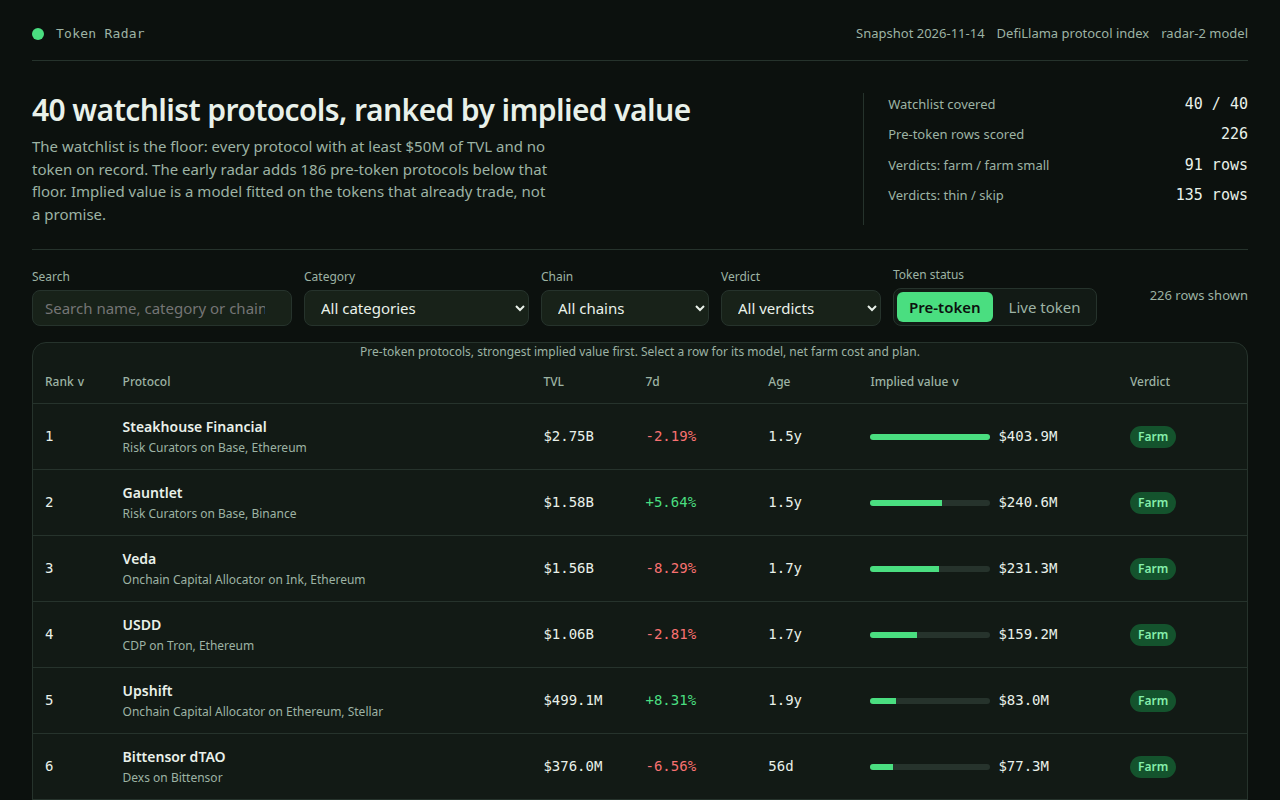
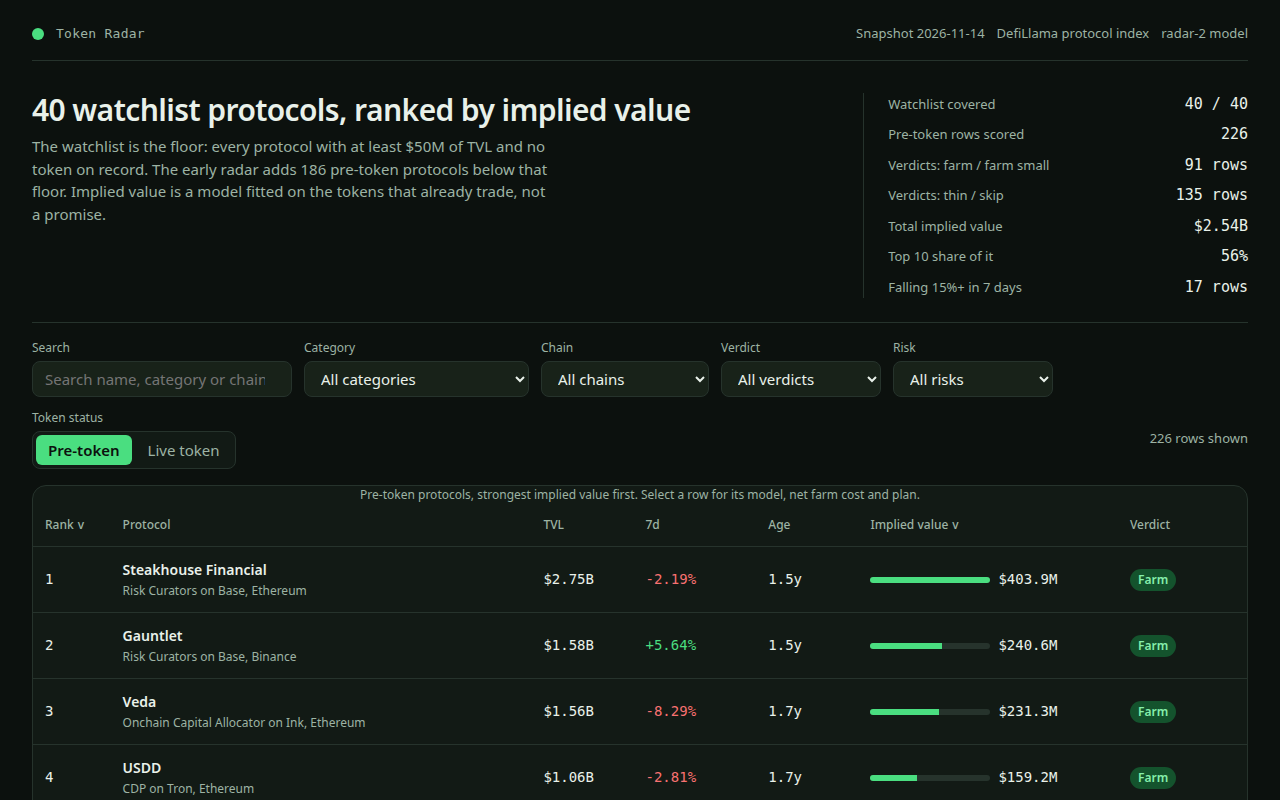
Radar-2: chain aggregates, risk flags, concentration note
- Chain aggregates: every chain's protocol count, total implied value,
  farm rows and top protocol, richest first (Ethereum $1.93B, Base
  $1.16B, Arbitrum $1.06B of a $2.54B board); rendered as a table
  in the model panel, with a concentration note (top 3 chains ~56%).
- Risk flag per row from the seven-day change alone: falling at -15%,
  surging at +25%, else steady (17 falling, 7 surging of 226); shown
  in the detail view with what it means, and filterable on the board.
- Lede gains total implied value, the top 10's share of it, and the
  falling count. All 7 gates still pass locally.

diff --git a/dashboard/app.js b/dashboard/app.js
@@ -7,7 +7,7 @@
   var DATA = window.RADAR;
   if (!DATA) return;
   var app = document.getElementById('board');
-  var state = { q: '', category: 'all', chain: 'all', verdict: 'all', tab: 'pre-token', sort: 'implied', dir: -1, selected: null };
+  var state = { q: '', category: 'all', chain: 'all', verdict: 'all', risk: 'all', tab: 'pre-token', sort: 'implied', dir: -1, selected: null };
 
   var usd = new Intl.NumberFormat('en-US', { style: 'currency', currency: 'USD', maximumFractionDigits: 0 });
   function fmtUsd(n) {
@@ -108,6 +108,12 @@
     skip: 'Skip it: the modelled value is too thin for the gas and the time; watch it instead.'
   };
   var VERDICT_LABEL = { farm: 'Farm', 'farm-small': 'Farm small', thin: 'Thin', skip: 'Skip' };
+  var RISK_LABEL = { falling: 'Falling', surging: 'Surging', steady: 'Steady' };
+  var RISK_TEXT = {
+    falling: 'TVL fell 15% or more in seven days: farm it smaller, or wait for the fall to stop.',
+    surging: 'TVL rose 25% or more in seven days: the growth multiplier credits the move, but a spike can unwind.',
+    steady: 'No sharp move in seven days: nothing in the recent change argues for or against the farm.'
+  };
   function actionFor(p, capital, chain) {
     var c = (p.category || '').toLowerCase();
     var name = p.name;
@@ -156,6 +162,7 @@
     if (params.get('category')) state.category = params.get('category');
     if (params.get('chain')) state.chain = params.get('chain');
     if (params.get('verdict')) state.verdict = params.get('verdict');
+    if (params.get('risk')) state.risk = params.get('risk');
   }
   function writeHash() {
     var params = new URLSearchParams();
@@ -163,6 +170,7 @@
     if (state.category !== 'all') params.set('category', state.category);
     if (state.chain !== 'all') params.set('chain', state.chain);
     if (state.verdict !== 'all') params.set('verdict', state.verdict);
+    if (state.risk !== 'all') params.set('risk', state.risk);
     if (state.selected) params.set('p', state.selected);
     var next = params.toString();
     if (next) window.history.replaceState(null, '', '#' + next);
@@ -175,6 +183,7 @@
       if (state.category !== 'all' && r.category !== state.category) return false;
       if (state.chain !== 'all' && !(r.chains || []).some(function (c) { return c === state.chain; })) return false;
       if (state.verdict !== 'all' && r.farm_verdict !== state.verdict) return false;
+      if (state.risk !== 'all' && r.risk !== state.risk) return false;
       if (!q) return true;
       var hay = [r.name, r.slug, r.category, (r.chains || []).join(' ')].join(' ').toLowerCase();
       return hay.indexOf(q) >= 0;
@@ -208,7 +217,16 @@
 
   function lede() {
     var counts = { farm: 0, 'farm-small': 0, thin: 0, skip: 0 };
-    DATA.rows.forEach(function (r) { counts[r.farm_verdict] = (counts[r.farm_verdict] || 0) + 1; });
+    var falling = 0;
+    var totalImplied = 0;
+    var topTenImplied = 0;
+    DATA.rows.forEach(function (r) {
+      counts[r.farm_verdict] = (counts[r.farm_verdict] || 0) + 1;
+      if (r.risk === 'falling') falling += 1;
+      totalImplied += r.implied_value_usd;
+      if (r.rank <= 10) topTenImplied += r.implied_value_usd;
+    });
+    var topTenShare = totalImplied > 0 ? Math.round((topTenImplied / totalImplied) * 100) : 0;
     return el('section', { class: 'lede' },
       el('div', null,
         el('h1', { text: DATA.watchlist_size + ' watchlist protocols, ranked by implied value' }),
@@ -218,7 +236,10 @@
         el('div', { class: 'fact' }, el('span', { text: 'Watchlist covered' }), el('b', { text: DATA.watchlist_size + ' / ' + DATA.watchlist_size })),
         el('div', { class: 'fact' }, el('span', { text: 'Pre-token rows scored' }), el('b', { text: String(DATA.board_size) })),
         el('div', { class: 'fact' }, el('span', { text: 'Verdicts: farm / farm small' }), el('b', { text: (counts.farm + counts['farm-small']) + ' rows' })),
-        el('div', { class: 'fact' }, el('span', { text: 'Verdicts: thin / skip' }), el('b', { text: (counts.thin + counts.skip) + ' rows' }))
+        el('div', { class: 'fact' }, el('span', { text: 'Verdicts: thin / skip' }), el('b', { text: (counts.thin + counts.skip) + ' rows' })),
+        el('div', { class: 'fact' }, el('span', { text: 'Total implied value' }), el('b', { text: fmtUsd(totalImplied) })),
+        el('div', { class: 'fact' }, el('span', { text: 'Top 10 share of it' }), el('b', { text: topTenShare + '%' })),
+        el('div', { class: 'fact' }, el('span', { text: 'Falling 15%+ in 7 days' }), el('b', { text: falling + ' rows' }))
       )
     );
   }
@@ -243,6 +264,11 @@
       ['farm', 'farm-small', 'thin', 'skip'].map(function (v) { return el('option', { value: v, text: VERDICT_LABEL[v], selected: v === state.verdict ? 'selected' : null }); })
     );
     verdictSelect.addEventListener('change', function () { state.verdict = verdictSelect.value; writeHash(); render(); });
+    var riskSelect = el('select', { id: 'risk', 'aria-label': 'Filter by risk' },
+      el('option', { value: 'all', text: 'All risks' }),
+      ['falling', 'surging', 'steady'].map(function (v) { return el('option', { value: v, text: RISK_LABEL[v], selected: v === state.risk ? 'selected' : null }); })
+    );
+    riskSelect.addEventListener('change', function () { state.risk = riskSelect.value; writeHash(); render(); });
     var pre = el('button', { type: 'button', 'aria-pressed': state.tab === 'pre-token' ? 'true' : 'false', text: 'Pre-token', onclick: function () { state.tab = 'pre-token'; render(); } });
     var live = el('button', { type: 'button', 'aria-pressed': state.tab === 'live' ? 'true' : 'false', text: 'Live token', onclick: function () { state.tab = 'live'; render(); } });
     return el('div', { class: 'controls' },
@@ -250,6 +276,7 @@
       el('div', { class: 'field' }, el('label', { for: 'category', text: 'Category' }), catSelect),
       el('div', { class: 'field' }, el('label', { for: 'chain', text: 'Chain' }), chainSelect),
       el('div', { class: 'field' }, el('label', { for: 'verdict', text: 'Verdict' }), verdictSelect),
+      el('div', { class: 'field' }, el('label', { for: 'risk', text: 'Risk' }), riskSelect),
       el('div', { class: 'field' }, el('span', { class: 'sub', text: 'Token status' }), el('div', { class: 'tabs' }, pre, live)),
       el('span', { class: 'count', text: state.tab === 'pre-token' ? rows().length + ' rows shown' : DATA.live.length + ' live-token protocols' })
     );
@@ -270,7 +297,7 @@
       return el('div', { class: 'panel' }, el('div', { class: 'empty' },
         el('h2', { text: 'No protocol matches that filter' }),
         el('p', { text: 'Clear the search or pick another category to see the board again.' }),
-        el('button', { class: 'button primary', type: 'button', text: 'Clear filters', onclick: function () { state.q = ''; state.category = 'all'; state.chain = 'all'; state.verdict = 'all'; writeHash(); render(); } })
+        el('button', { class: 'button primary', type: 'button', text: 'Clear filters', onclick: function () { state.q = ''; state.category = 'all'; state.chain = 'all'; state.verdict = 'all'; state.risk = 'all'; writeHash(); render(); } })
       ));
     }
     var max = list[0].implied_value_usd || 1;
@@ -342,6 +369,23 @@
     );
   }
 
+  // How concentrated the value is: the share of the board's total implied value the top chains hold.
+  // A board spread thin across many chains is a radar; a board where three chains hold most of the
+  // value is a bet on those chains, and the farm plan should say so.
+  function concentrationNote() {
+    var total = 0;
+    DATA.rows.forEach(function (r) { total += r.implied_value_usd; });
+    var chains = (DATA.chains || []).slice(0, 3);
+    if (total <= 0 || chains.length === 0) return null;
+    var topShare = 0;
+    var parts = chains.map(function (c) {
+      var share = Math.round((c.total_implied_usd / total) * 100);
+      topShare += share;
+      return c.chain + ' ' + share + '% (' + fmtUsd(c.total_implied_usd) + ')';
+    });
+    return el('p', { class: 'sub', text: 'Concentration: the top ' + chains.length + ' chains hold about ' + topShare + '% of the board\u2019s total implied value of ' + fmtUsd(total) + ' \u2014 ' + parts.join(', ') + '. The rest is spread across ' + ((DATA.chains || []).length - chains.length) + ' more chains.' });
+  }
+
   function modelPanel() {
     var m = DATA.model;
     var fit = DATA.fit;
@@ -361,7 +405,25 @@
           return el('tr', null, el('td', { text: c.category }), el('td', { class: 'num', text: String(c.comps) }), el('td', { class: 'num', text: c.multiple.toFixed(3) }));
         }))
       ),
-      el('p', { class: 'sub', text: 'Out of sample: the same rule re-fitted on half the comps predicts the other half (' + oos.held_out + ' protocols) with a median error of ' + oos.median_ape_pct + '%, and ' + oos.within_2x_pct + '% of them land within twice their real market cap. The fit is a guide, not a price: a multiple fitted on a market can still be wrong about any one protocol.' })
+      el('p', { class: 'sub', text: 'Out of sample: the same rule re-fitted on half the comps predicts the other half (' + oos.held_out + ' protocols) with a median error of ' + oos.median_ape_pct + '%, and ' + oos.within_2x_pct + '% of them land within twice their real market cap. The fit is a guide, not a price: a multiple fitted on a market can still be wrong about any one protocol.' }),
+      el('h3', { text: 'Where the value sits, by chain' }),
+      el('p', { class: 'sub', text: 'A protocol on several chains counts on each of them, so the rows add up to more than the board. The chain a farm runs on sets its gas: a dollar of implied value on Solana costs cents to farm, the same dollar on Ethereum costs dollars.' }),
+      el('table', { class: 'fit-table' },
+        el('thead', null, el('tr', null, el('th', { text: 'Chain' }), el('th', { class: 'num', text: 'Protocols' }), el('th', { class: 'num', text: 'Farm rows' }), el('th', { class: 'num', text: 'Total implied' }), el('th', { text: 'Top protocol' }))),
+        el('tbody', null, (DATA.chains || []).slice(0, 10).map(function (c) {
+          return el('tr', null,
+            el('td', { text: c.chain }),
+            el('td', { class: 'num', text: String(c.protocols) }),
+            el('td', { class: 'num', text: String(c.farm_rows) }),
+            el('td', { class: 'num', text: fmtUsd(c.total_implied_usd) }),
+            el('td', { text: c.top_name + ' (' + fmtUsd(c.top_implied_usd) + ')' })
+          );
+        }))
+      ),
+      el('h3', { text: 'How the verdict is read' }),
+      concentrationNote(),
+      el('p', { class: 'sub', text: 'The verdict compares the modelled value with what the farm itself costs, as a ratio, not as a dollar size. Farm when the value is at least a million times the cost, farm small at three hundred thousand times, thin at eighty thousand times, and skip below that. A small protocol with cheap gas can outrank a giant one with expensive gas: the ratio is the point.' }),
+      el('p', { class: 'sub', text: 'Risk is read off the seven-day change alone. Falling means the protocol lost 15% or more of its TVL in a week: farm it smaller, or wait for the fall to stop. Surging means it gained 25% or more: the growth multiplier already credits the move, but a spike can unwind, so the plan still holds the full term.' })
     );
   }
 
@@ -390,12 +452,14 @@
         el('div', null, el('span', { text: 'TVL' }), el('b', { class: 'num', text: fmtUsd(row.tvl_usd) })),
         el('div', null, el('span', { text: 'Fitted multiple' }), el('b', { class: 'num', text: row.multiple.toFixed(4) })),
         el('div', null, el('span', { text: 'Seven-day growth' }), el('b', { class: 'num', text: fmtPct(row.change_7d) })),
+        el('div', null, el('span', { text: 'Risk' }), el('b', { class: 'num', text: RISK_LABEL[row.risk] || row.risk })),
         el('div', null, el('span', { text: 'Age with no token' }), el('b', { class: 'num', text: fmtAge(row.age_days) })),
         el('div', null, el('span', { text: 'Growth multiplier' }), el('b', { class: 'num', text: String(row.growth_multiplier) })),
         el('div', null, el('span', { text: 'Maturity multiplier' }), el('b', { class: 'num', text: String(row.maturity_multiplier) })),
         el('div', null, el('span', { text: 'Implied value' }), el('b', { class: 'num', text: fmtUsd(row.implied_value_usd) }))
       ),
-      el('p', { class: 'sub', text: 'Model ' + DATA.model_version + ': the same function scores every protocol. The page recomputes this row as ' + fmtUsd(recomputed) + (recomputed === row.implied_value_usd ? ', the same number board.json carries.' : ', which differs from the board: the data would be stale.') + ' This is an estimate, not a price.' })
+      el('p', { class: 'sub', text: 'Model ' + DATA.model_version + ': the same function scores every protocol. The page recomputes this row as ' + fmtUsd(recomputed) + (recomputed === row.implied_value_usd ? ', the same number board.json carries.' : ', which differs from the board: the data would be stale.') + ' This is an estimate, not a price.' }),
+      el('p', { class: 'sub', text: 'Risk: ' + (RISK_TEXT[row.risk] || RISK_TEXT.steady) })
     ));
     dialog.appendChild(el('section', { class: 'detail-section' },
       el('h3', { text: 'Net farm cost' }),

diff --git a/lib/model.ts b/lib/model.ts
@@ -119,6 +119,54 @@ export interface FarmStep {
 export type FarmVerdict = 'farm' | 'farm-small' | 'thin' | 'skip';
 
 /** One row of board.json: the ranked board's row. */
+/** How a protocol's last seven days read: a steep fall, a sharp surge, or nothing worth flagging. */
+export type Risk = 'falling' | 'surging' | 'steady';
+
+/** The risk flag from the seven-day change alone: a fall of 15% or more, a surge of 25% or more. */
+export function riskFor(change7d: number | null): Risk {
+  if (change7d === null || !Number.isFinite(change7d)) return 'steady';
+  if (change7d <= -15) return 'falling';
+  if (change7d >= 25) return 'surging';
+  return 'steady';
+}
+
+/** One chain's share of the board: how many pre-token protocols live there, what they are worth together, and which one leads. */
+export interface ChainAggregate {
+  chain: string;
+  protocols: number;
+  total_implied_usd: number;
+  farm_rows: number;
+  top_slug: string;
+  top_name: string;
+  top_implied_usd: number;
+}
+
+/** The board grouped by chain, richest first. A protocol on several chains counts on each of them. */
+export function chainAggregates(board: BoardRow[]): ChainAggregate[] {
+  const byChain = new Map<string, { protocols: number; total: number; farm: number; top: BoardRow | null }>();
+  for (const row of board) {
+    for (const chain of row.chains) {
+      const agg = byChain.get(chain) ?? { protocols: 0, total: 0, farm: 0, top: null };
+      agg.protocols += 1;
+      agg.total += row.implied_value_usd;
+      if (row.farm_verdict === 'farm' || row.farm_verdict === 'farm-small') agg.farm += 1;
+      if (agg.top === null || row.implied_value_usd > agg.top.implied_value_usd) agg.top = row;
+      byChain.set(chain, agg);
+    }
+  }
+  return [...byChain.entries()]
+    .map(([chain, agg]) => ({
+      chain,
+      protocols: agg.protocols,
+      total_implied_usd: agg.total,
+      farm_rows: agg.farm,
+      top_slug: agg.top?.slug ?? '',
+      top_name: agg.top?.name ?? '',
+      top_implied_usd: agg.top?.implied_value_usd ?? 0,
+    }))
+    .sort((a, b) => b.total_implied_usd - a.total_implied_usd || (a.chain < b.chain ? -1 : 1));
+}
+
 export interface BoardRow {
   rank: number;
   slug: string;
@@ -145,6 +193,7 @@ export interface BoardRow {
   farm_cost_usd: number;
   farm_gas_usd: number;
   farm_verdict: FarmVerdict;
+  risk: Risk;
   farm_steps: string[];
 }
 
@@ -167,6 +216,7 @@ export interface RadarRow {
   farm_cost_usd: number;
   farm_gas_usd: number;
   farm_verdict: FarmVerdict;
+  risk: Risk;
 }
 
 /** A live-token protocol: it already trades, so the board shows the market's own value, not a model's. */
@@ -192,6 +242,7 @@ export interface RadarData {
   board_size: number;
   early_size: number;
   live_size: number;
+  chains: ChainAggregate[];
   rows: RadarRow[];
   live: LiveRow[];
 }
@@ -551,6 +602,7 @@ export function buildBoard(snapshot: Snapshot, fit: CompsFit, model: ModelConsta
     farm_cost_usd: s.cost,
     farm_gas_usd: s.gas,
     farm_verdict: s.verdict,
+    risk: riskFor(s.p.change_7d),
     farm_steps: farmSteps(s.p, s.age, s.implied, model).map(stepText),
   }));
 }
@@ -577,6 +629,7 @@ export function radarRow(row: BoardRow): RadarRow {
     farm_cost_usd: row.farm_cost_usd,
     farm_gas_usd: row.farm_gas_usd,
     farm_verdict: row.farm_verdict,
+    risk: row.risk,
   };
 }
 
@@ -597,6 +650,7 @@ export function buildRadar(snapshot: Snapshot, model: ModelConstants = MODEL): {
     board_size: board.length,
     early_size: early,
     live_size: live.length,
+    chains: chainAggregates(board),
     rows: board.map(radarRow),
     live,
   };
